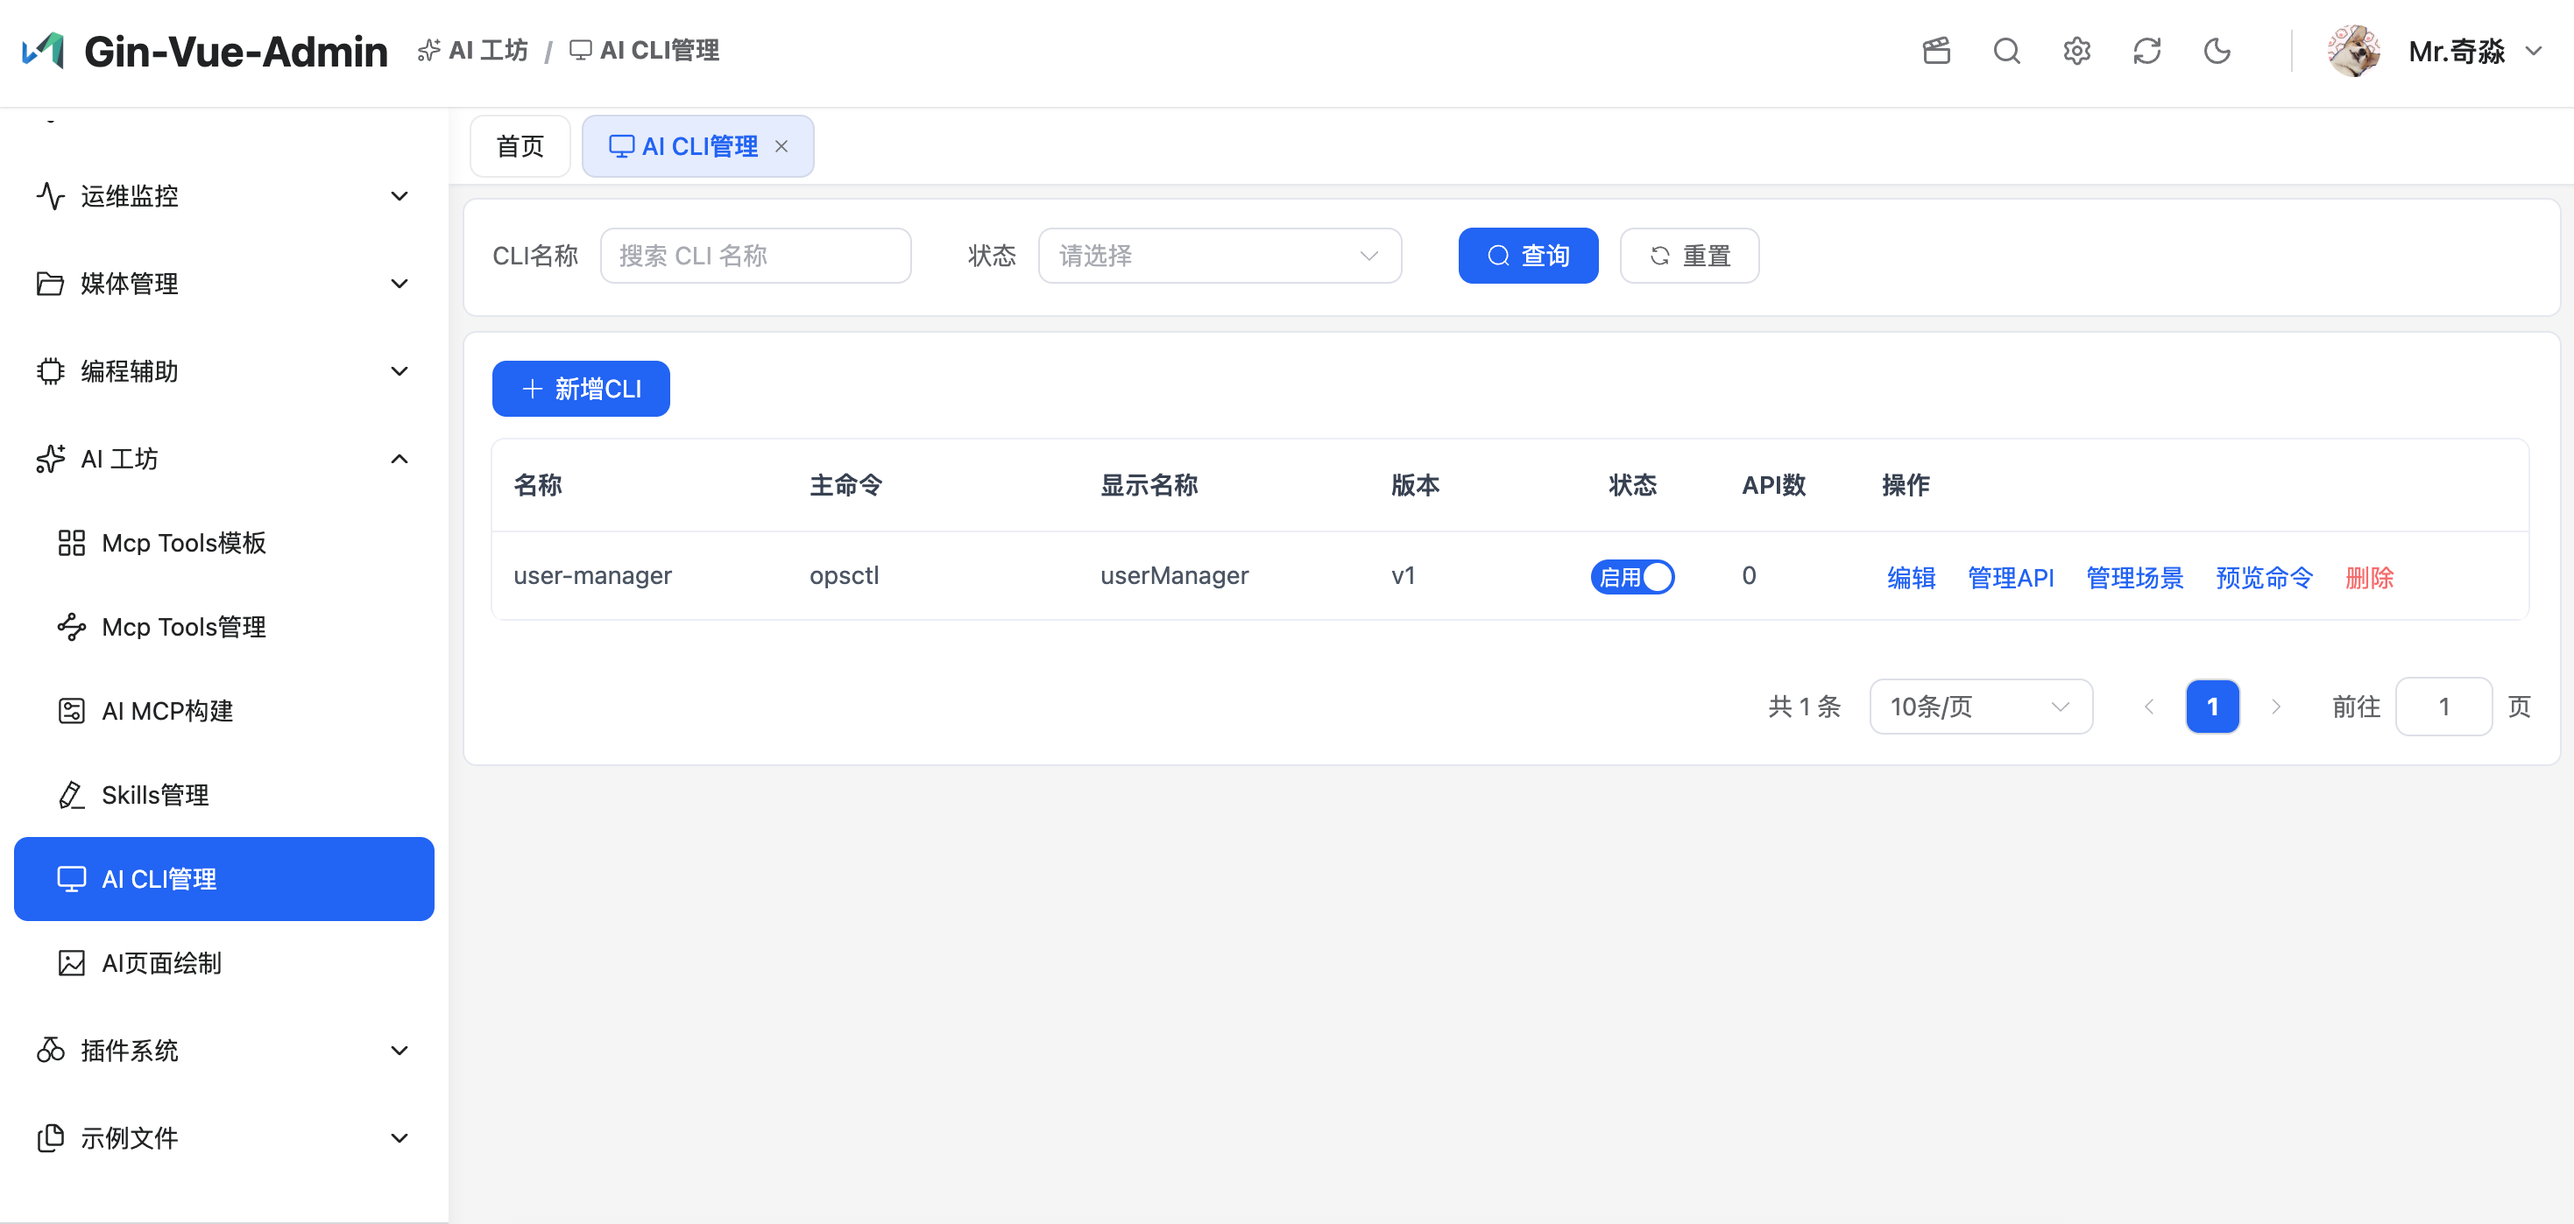
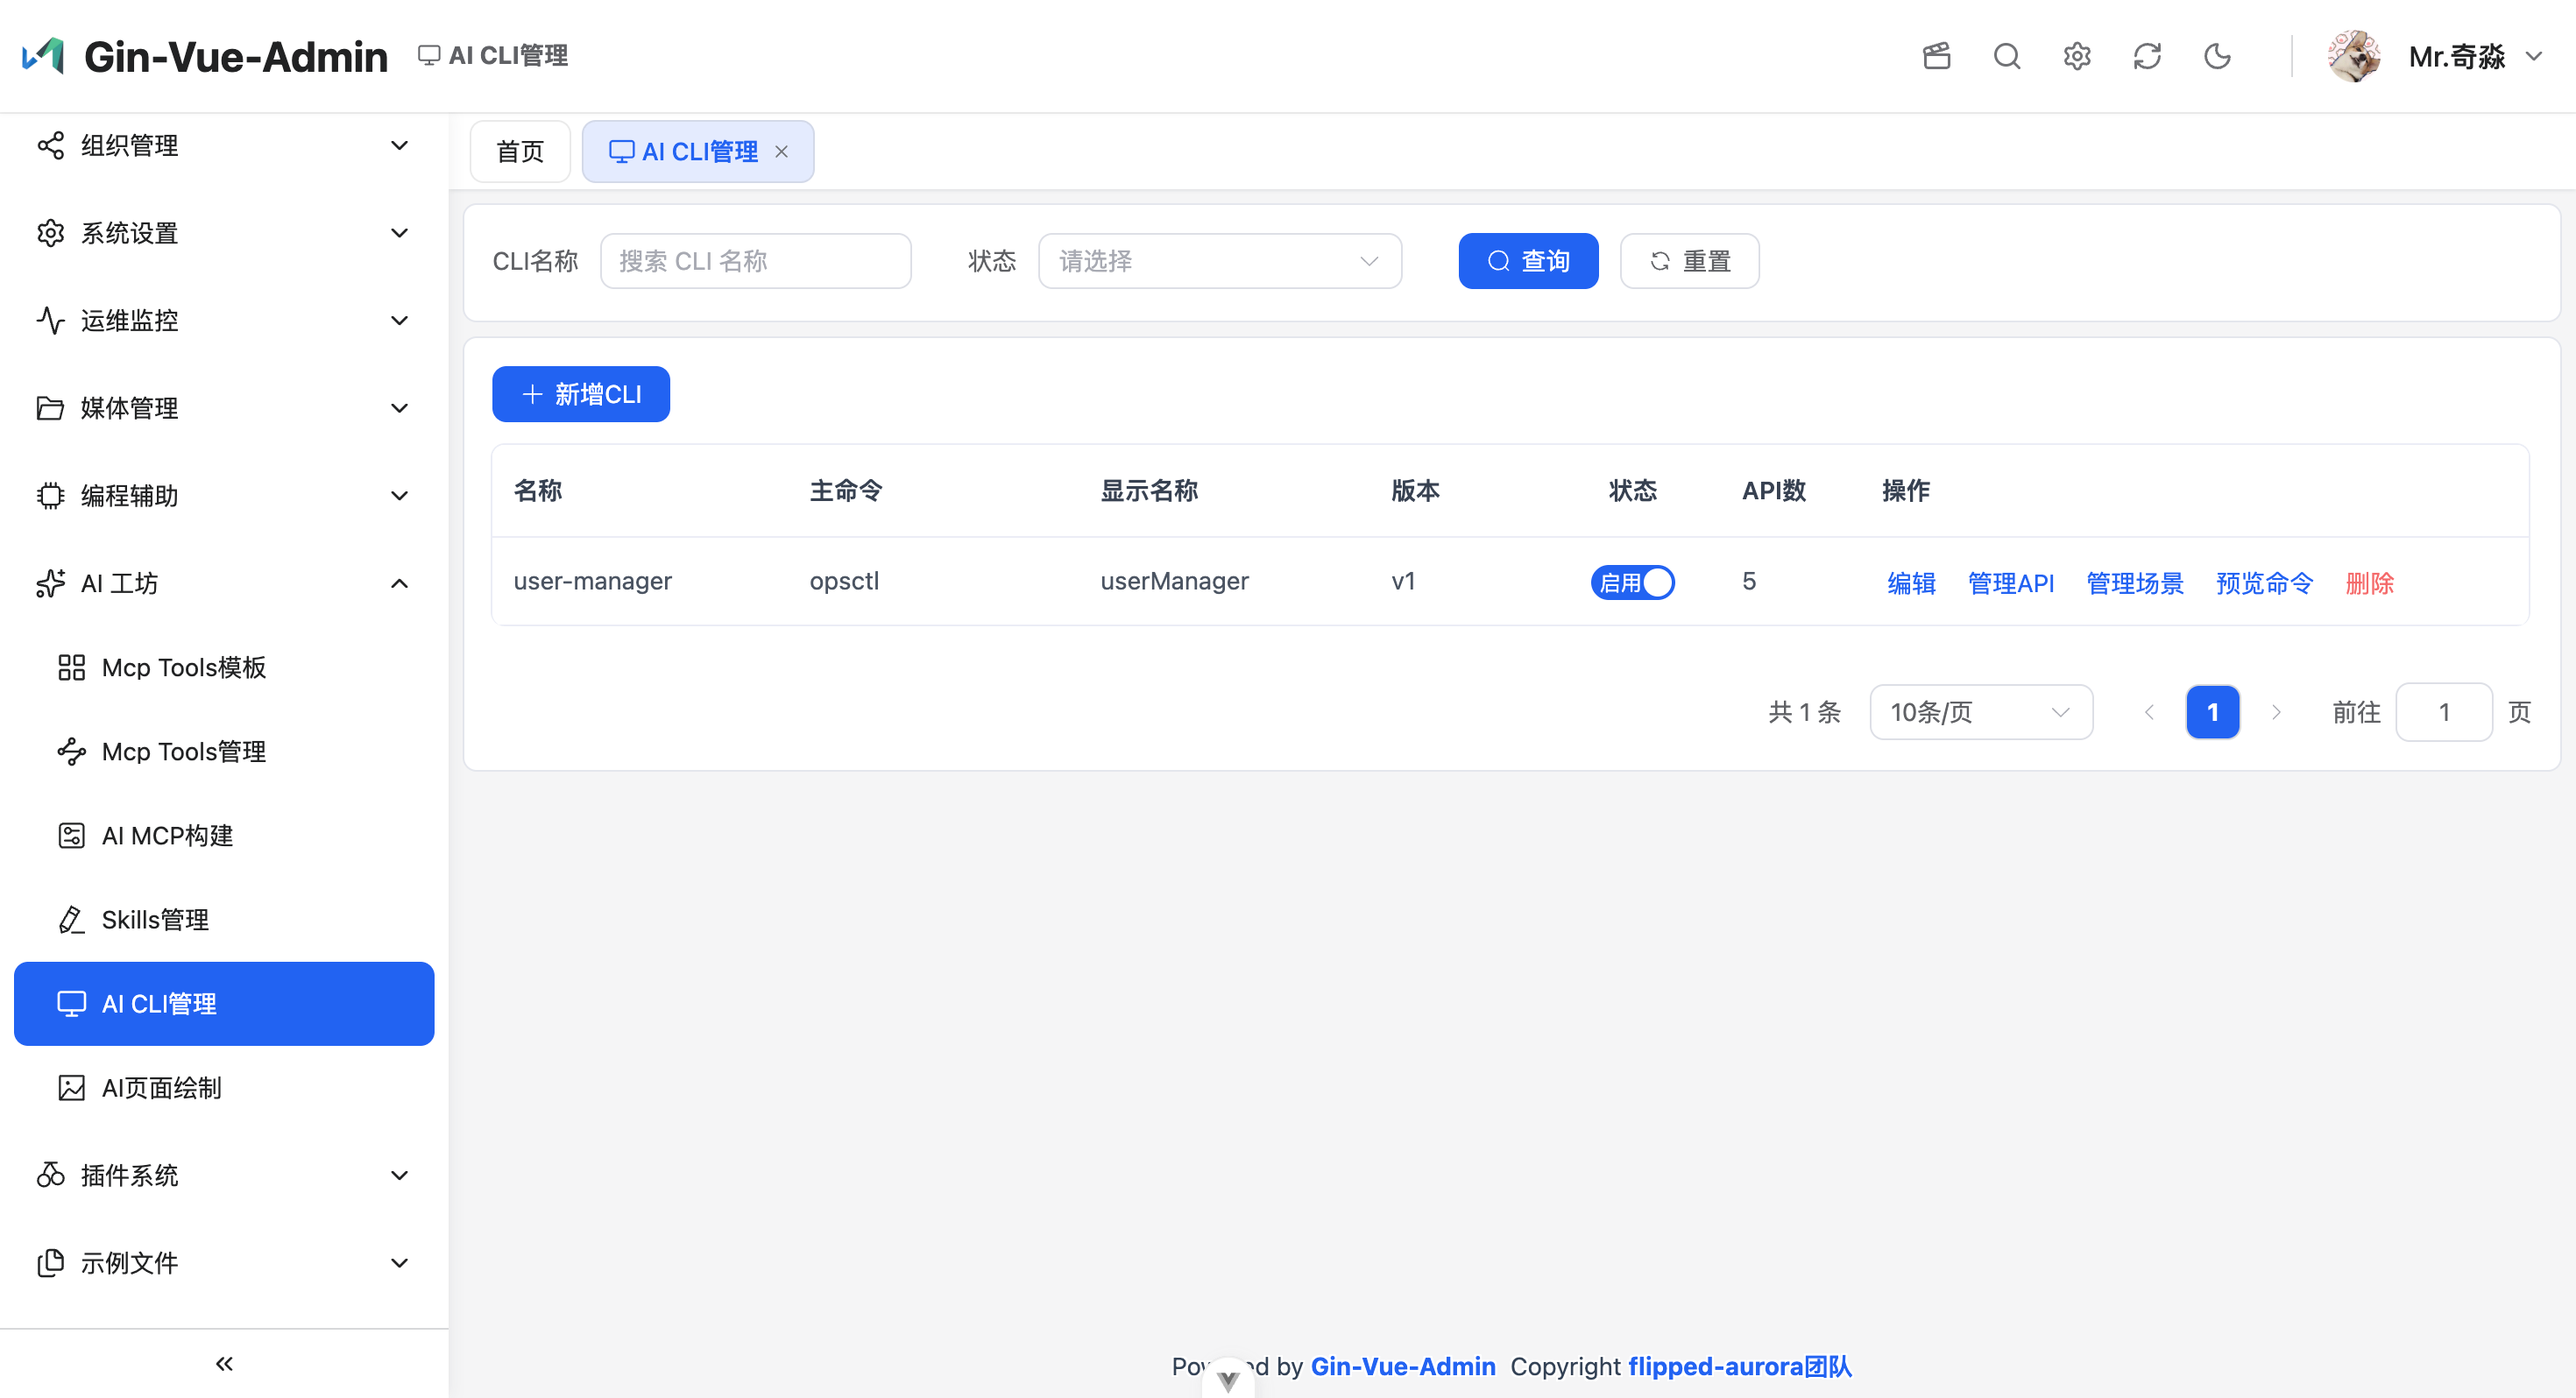
feat：轮播图替换

diff --git a/docs/.vitepress/theme/components/home/sections/VideoSection.vue b/docs/.vitepress/theme/components/home/sections/VideoSection.vue
@@ -10,11 +10,11 @@
       </div>
 
       <!-- ═══ 轮播图（暂时替换 video）═══
-           宽高与原 video 盒子完全一致（aspect-[16/9] / 移动端 aspect-[306/236]）；
+           盒子比例与轮播图一致（aspect-[35/19] = 2940×1596），object-cover 铺满无黑边；
            动画复刻 Community.vue 的单张全宽滑动：translateX(56px) + 透明度，
            cubic-bezier(0.4,0,0.2,1) 0.52s，自动播放 3.5s、hover 暂停、触摸、圆点。 -->
       <div
-        class="relative w-full aspect-[2/1] rounded-[4px] overflow-hidden bg-[#eef1f6] dark:bg-[#161c2b] max-[860px]:rounded-lg"
+        class="relative w-full aspect-[35/19] rounded-[4px] overflow-hidden bg-[#eef1f6] dark:bg-[#161c2b] max-[860px]:rounded-lg"
         @mouseenter="pause"
         @mouseleave="resume"
         @touchstart="onTouchStart"
@@ -25,7 +25,7 @@
             :key="slides[current] + current"
             :src="slides[current]"
             :alt="`GVA 演示 ${current + 1}`"
-            class="carousel-slide absolute inset-0 w-full h-full object-contain select-none"
+            class="carousel-slide absolute inset-0 w-full h-full object-cover select-none"
             draggable="false"
           />
         </TransitionGroup>
@@ -93,9 +93,9 @@ import playerIcon from '@/public/web/player.png'
    cubic-bezier(0.4,0,0.2,1) 0.52s，自动播放 3.5s、hover 暂停、圆点、触摸。
    ═══════════════════════════════════════════════════════════════ */
 const slides = [
-  '/web/lbt1.jpeg',
-  '/web/lbt2.jpeg',
-  '/web/lbt3.jpeg',
+  '/web/lbt1.png',
+  '/web/lbt2.png',
+  '/web/lbt3.png',
   '/web/lbt4.png',
   '/web/lbt5.png',
 ]
